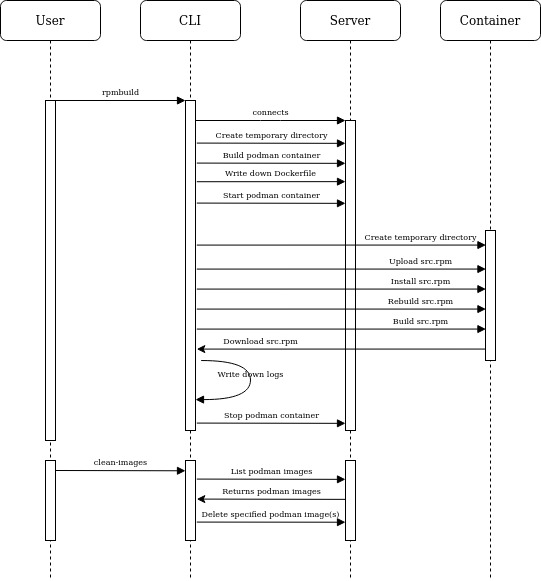
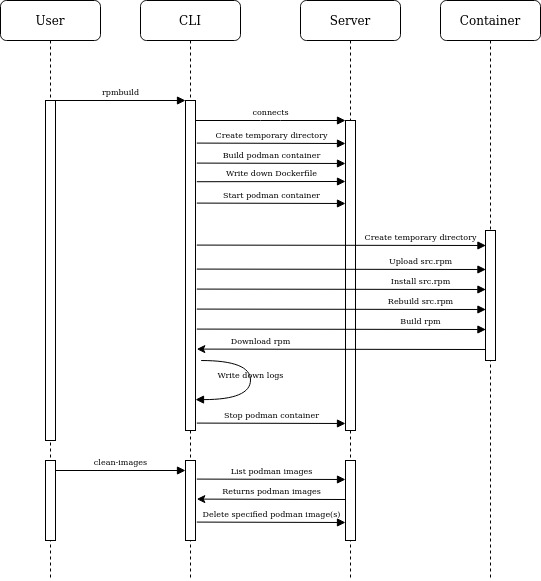
Add documentation about the project
This commit adds a mkdocs based documentation project which explains how
to install, run and write the configuration file for the CLI tool.
This commit also updates the workflow diagram of the project.

diff --git a/docs/custom_theme/main.html b/docs/custom_theme/main.html
@@ -1,0 +1,19 @@
+{% extends "base.html" %}
+
+{%- block site_name %}
+<a class="navbar-brand" href="{{ nav.homepage.url|url }}">
+    {% if config.logo %}
+    <img src="{{ config.logo | url }}" alt="logo" />
+    {% endif %}
+    {{ config.site_name }}
+</a>
+{%- endblock %}
+
+
+{%- block footer %}
+<hr>
+{%- if config.copyright %}
+  <p>{{ config.copyright }}</p>
+{%- endif %}
+
+{%- endblock %}

diff --git a/docs/config.md b/docs/config.md
@@ -1,0 +1,98 @@
+Configuration file
+==================
+
+When running remote builder's CLI you can use a configuration file to specify
+to which host the CLI should connect to.
+
+Here is an example configuration file:
+```
+[hosts]
+host1 = localhost
+host2 = 192.168.1.64
+
+[localhost]
+type=       socket
+port=       18861
+timeout=    14400
+
+[192.168.1.64]
+type=       ssh
+ssh_port=   22
+port=       18861
+timeout=    14400
+user=       guest
+password=   password
+```
+
+Here are some explanations:
+
+## The hosts section
+
+The `hosts` section contains a list of hosts the CLI will connect to. The
+options' names (`host1`, `host2`...) do not matter, but the options's values
+must be the name (hostname or IP address) of the host to connect to.
+
+**This section must be specified.**
+
+## The types
+
+Each host section, must contain a `type` option. That `type` can be either of
+value `socket` or `ssh`.
+
+A `socket` type means the CLI can connect to the server directly at the specified
+port. This is likely be the simplest approach when the server is running localy
+(ie: `localhost`, or `127.0.0.1`...). It can also be used if you do port forwarding
+from a remote system locally (for example using a ssh tunnel).
+
+A `ssh` type means the CLI can connect to a server running remotely via ssh.
+The way this is done is by creating a ssh tunnel using the [plumbum](https://plumbum.readthedocs.io/en/latest/)
+library (used withing [RPyc](https://rpyc.readthedocs.io/en/latest/)).
+
+**This option must be specified.**
+
+## The port
+
+The `port` option must be an integer specifying the port at which the server is
+listening. It can be either the local port or the port of the server running
+locally on the remote host.
+
+**This option must be specified.**
+
+## The timeout
+
+The `timeout` option can be used to specify the timeout value (in seconds) after
+which the connection to the server will abort if no results have been sent back
+to the CLI.
+
+This default to `60 * 60 * 3` ie: 3 hours.
+
+## The SSH options
+
+If you want to connect to a remote host running the server, you can do so using
+a ssh tunnel via the `ssh` type.
+
+There are a few options available for this connection type:
+
+* `ssh_port` simply the port at which the ssh server is listening, defaults to `22`.
+* `user` the user to connect to the remote server as
+* `password` this option can be either the password of the user listed just above
+  or, if you connect to the remote server using an ssh key, it can be the password
+  of that ssh key.
+* `keyfile` the path to the ssh key to use to connect to the remote server
+
+**Either a `user` or a `keyfile` must be specified for host of type `ssh`.**
+
+
+## Default configuration file
+
+Here is the default configuration file of remote builder:
+```
+[hosts]
+host1 = localhost
+
+[localhost]
+type=       socket
+port=       18861
+```
+
+It allows to run the CLI against a server running locally (at the default port).

diff --git a/docs/install.md b/docs/install.md
@@ -1,0 +1,72 @@
+Installing and running remote builder
+=====================================
+
+Installing remote builder
+-------------------------
+
+You can install remote builder in a few ways:
+
+### From pip
+
+You can very simply install remote builder from pip using:
+```
+pip install remote_builder
+```
+
+### From git
+
+This allows to run the latest (potentially in development version of the code)
+but it can also allow to run the code without installing it per say.
+
+You can simply do so by doing:
+```
+git clone https://github.com/pypingou/remote_builder
+```
+
+If you choose to this method you will have to prefix all the command listed
+below for running the server or the CLI with `PYTHONPATH=.`.
+
+Running remote builder
+----------------------
+
+### Running the server
+
+To run the server you will simply have to run either:
+
+- the `remote_builder_server` CLI, if you choose to install remote builder from pip.
+or
+- `PYTHONPATH=. python remote_builder/server/server.py` if you choose to run
+  remote builder from git. Run that command from the top level of the git
+  repository.
+
+In both cases, you can use `--help` for more information about the different
+options and arguments available to tweak how the server is ran.
+
+- **Dependencies**
+
+Here is the list of dependencies for the server:
+
+- RPyC (python3-rpyc)
+- podman
+- rpm-build
+- dnf-plugins-core
+
+### Running the CLI
+
+To run the CLI you can simply run either:
+
+- the `remote_builder` CLI, if you choose to install remote builder from pip.
+or
+- `PYTHONPATH=. python remote_builder/cli/cli.py` if you choose to run
+  remote builder from git. Run that command from the top level of the git
+  repository.
+
+In both cases, you can use `--help` for more information about the different
+options and arguments available.
+
+- **Dependencies**
+
+Here is the list of dependencies for the CLI:
+
+- RPyC (python3-rpyc on Fedora)
+- sshpass (optional): used when connecting to a remote host using a ssh key

diff --git a/docs/index.md b/docs/index.md
@@ -1,0 +1,55 @@
+Remote Builder
+==============
+
+Remote builder is a simple RPC based application that can be used to build RPMs
+on a configured set of hosts.
+
+How does it work?
+-----------------
+
+### Architecture
+
+Remote builder is built in two parts:
+
+- a CLI
+- a server
+
+The CLI is what users interact with. They will pass onto the CLI tool a
+configuration file pointing to one or more host that are running the server
+part.
+
+The server is the application the CLI connects to. It executes the commands that
+the CLI asks for.
+
+### Workflow
+
+Remote builder has two actions:
+
+- Building the RPMs from a source RPM
+- Cleaning up podman images created remotely by remote_builder
+
+#### Building the RPMs from a source RPM
+
+The CLI connects to the server running on one or more hosts. It asks the server
+to create a container on that host running the remote builder server code.
+The CLI then connects to that container, and uploads the SRPM specified by the
+user into that container. It can then extract the content of the SRPM and
+rebuild that SRPM. Once the SRPM has been rebuilt, it will install the build
+dependencies and finally build the RPMs.
+Once the RPMs have been built, they will be exported from the container into the
+system that runs the CLI as well as the build logs. If the build fails, only the
+logs are exported.
+
+#### Cleaning up podman images
+
+The CLI connects to the server running on one or more hosts. It then retrieves
+the list of podman images available on these hosts and will delete all images
+that were created by remote builder.
+
+
+#### Workflow diagram
+
+As the saying goes: a picture is worth a thousand words, so here is a workflow
+diagram of the application.
+
+![remote builder workflow](Remote_builder_diagram.jpg "Remote Builder workflow diagram")
